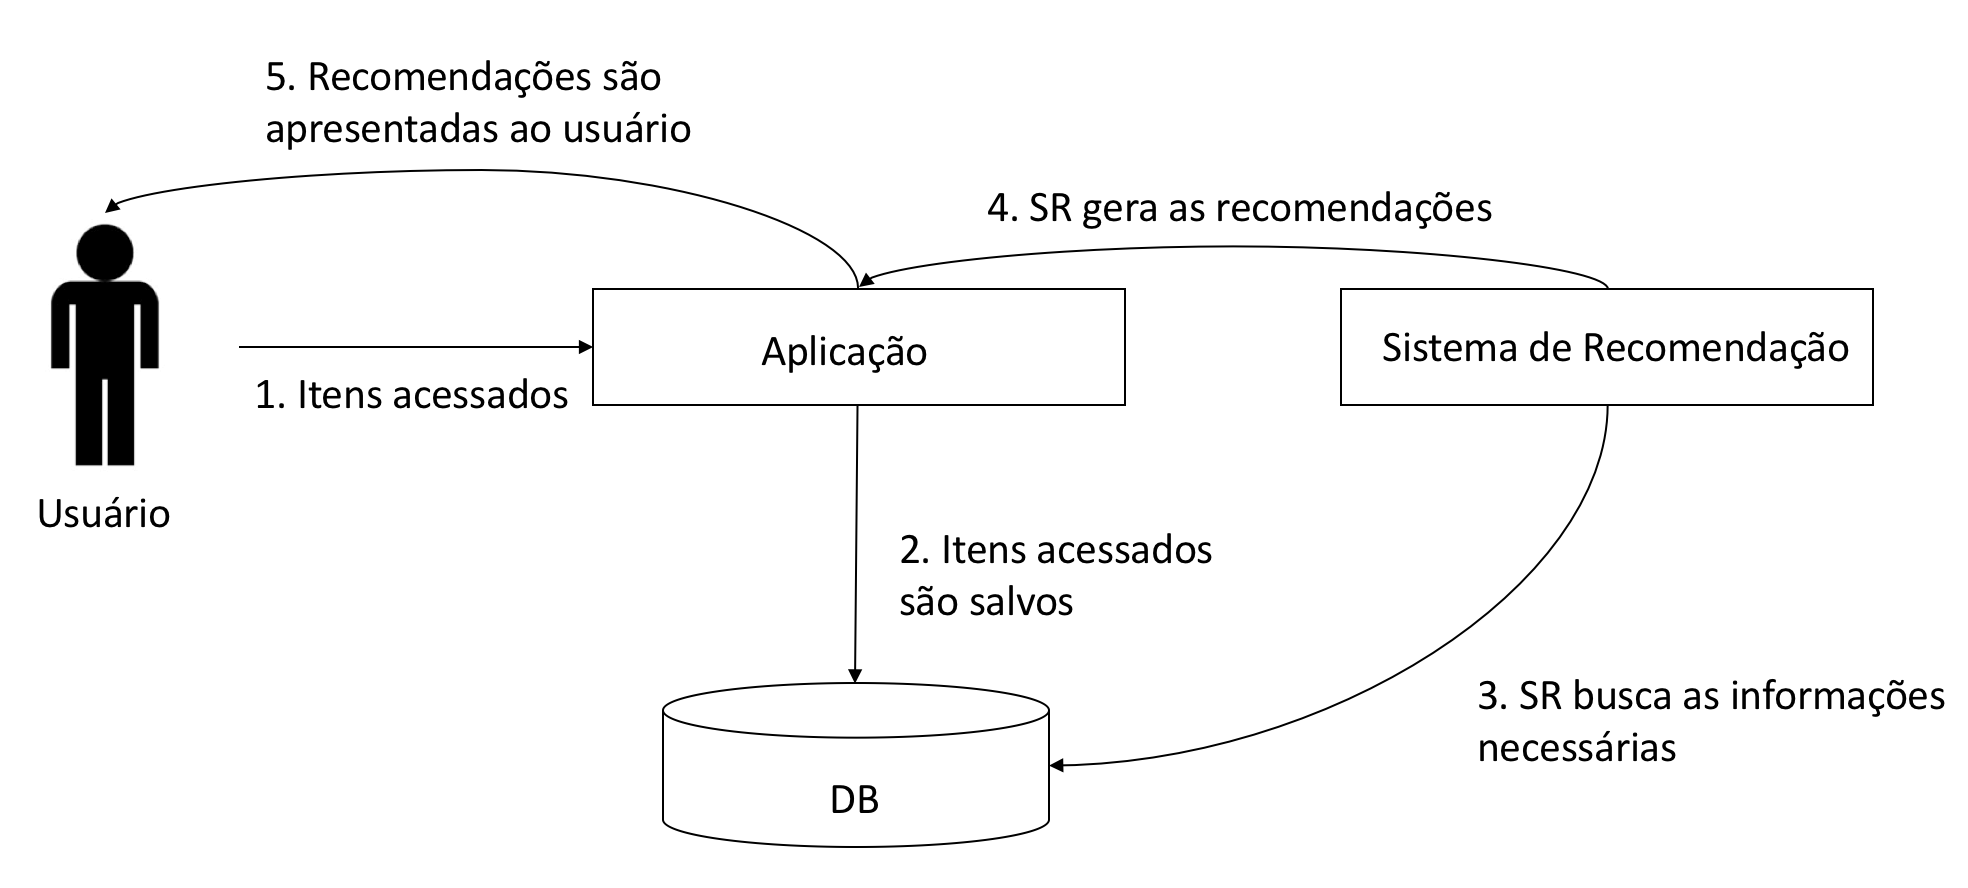
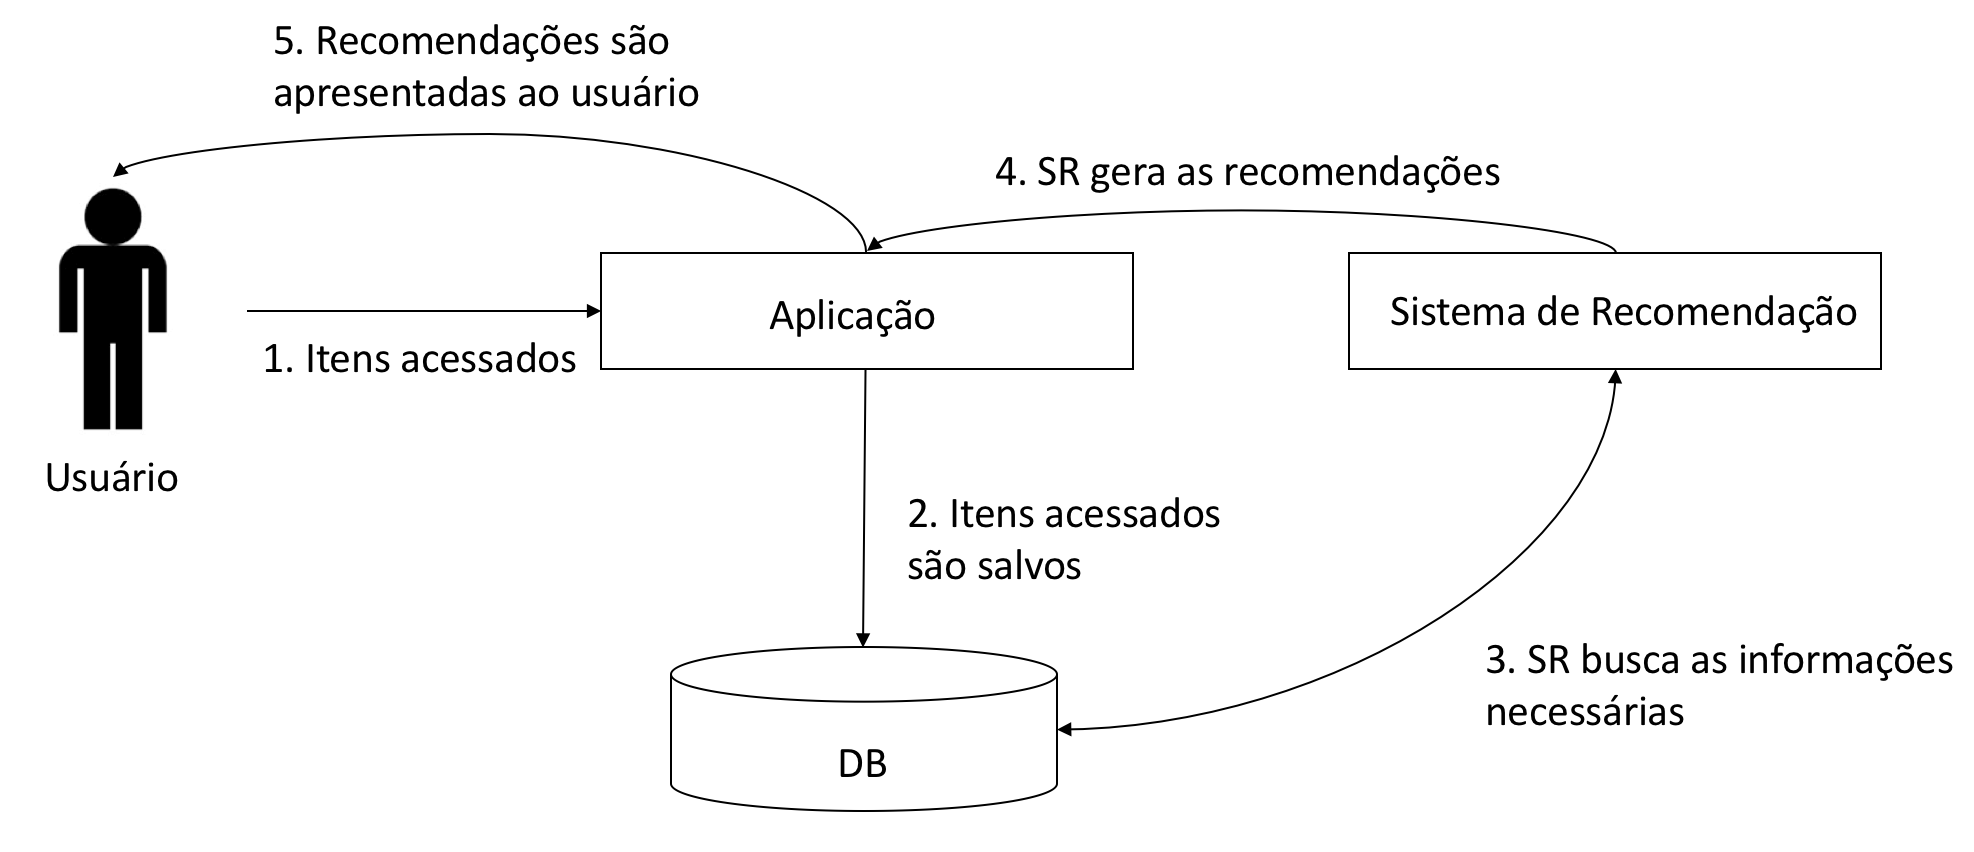
Mudar direção da seta na imagem

diff --git a/Partes/4-sr-sensivel-ao-tempo.tex b/Partes/4-sr-sensivel-ao-tempo.tex
@@ -150,7 +150,7 @@ melhore o seu tempo de processamento.
 Na Figura \ref{fig:modelo-proposta} está um diagrama que mostra a aplicação do SR proposto. A primeira etapa para que a
 recomendação aconteça é o usuário interagir com a Aplicação, no caso um Ambiente Virtual de Aprendizagem (AVA). Ao
 acessar os itens o usuário está montando o seu perfil e auxiliando o SR a encontrar os itens para a recomendação.
-Na segunda etapa, a aplicação salva os itens acessados pelo usuário no banco de dados, de forma que essa informação possa
+Na segunda etapa, a aplicação salva os itens acessados pelo usuário no Banco de Dados, de forma que essa informação possa
 ser utilizada pelo SR. Durante essa etapa, é calculada a posição do item acessado, contando quantos itens já foram acessados
 pelo usuário até o momento, e salva juntamente com o restante das informações.
 
@@ -162,11 +162,11 @@ pelo usuário até o momento, e salva juntamente com o restante das informaçõe
   \legend{Fonte: O autor.}
 \end{figure}
 
-Na terceira etapa o SR busca as informações necessárias para a recomendação, tanto sobre os itens acessados pelo usuário quanto
+Na terceira etapa o SR busca do Banco de Dados as informações necessárias para a recomendação, tanto sobre os itens acessados pelo usuário quanto
 sobre os conjunto de itens que podem ser recomendados. Sobre os itens acessados, o SR precisa das palavras-chave e a posição
 dos itens. Sobre os itens a serem recomendados, o SR precisa das palavras-chave e se aqueles itens
 já foram acessados pelo usuário ou não. Após buscar essas informações, o SR aplica o algoritmo mostrado anteriormente
-para gerar as recomendações e retorna para a Aplicação. A última etapa é responsabilidade da Aplicação, que prepara as
+para gerar as recomendações, salva as recomendações geradas no Banco de Dados e retorna para a Aplicação. A última etapa é responsabilidade da Aplicação, que prepara as
 recomendações para serem visualizadas pelo usuário e as apresenta para ele.
 
 \section{Cenário de Uso}
